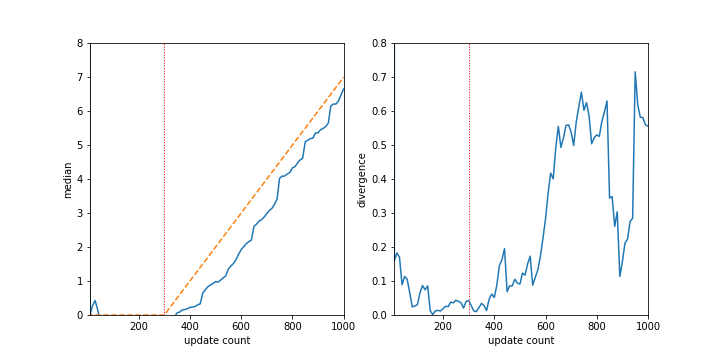
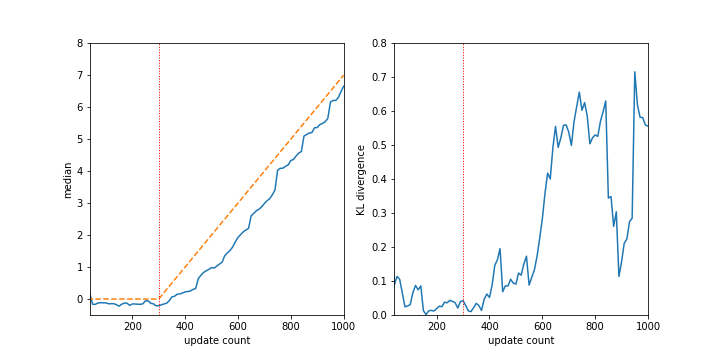
+ implements the gif plot for the gradual concept drift experiment

diff --git a/flip-docs/resources/experiments/pdfplot.py b/flip-docs/resources/experiments/pdfplot.py
@@ -7,17 +7,30 @@ from scipy.stats import norm
 
 # basic frame
 
-def pdfframe(ax, expected, xmin, xmax, ymin, ymax):
-    margin = 10
-
-    x2 = np.arange(xmin - margin, xmax + margin, 0.1)
-    y2 = expected(x2)
-
-    ax.plot(x2, y2, '--', color='orange')
+def pdfframe(ax, xmin, xmax, ymin, ymax):
     ax.set_xlim(xmin, xmax)
     ax.set_ylim(ymin, ymax)
     ax.set_ylabel("probability density")
     ax.set_xlabel("x")
+
+
+# dashed
+
+def empty_pdf_dashed_dataframe(ax):
+    return ax.plot([], [], '--', color='orange')
+
+def setline_for_expected(lines, expected, xmin, xmax):
+    margin = 10
+    line, = lines
+    x2 = np.arange(xmin - margin, xmax + margin, 0.1)
+    y2 = expected(x2)
+
+    line.set_data(x2, y2)
+
+def pdfframe_with_expected(ax, expected, xmin, xmax, ymin, ymax):
+    pdfframe(ax, xmin, xmax, ymin, ymax)
+    line = empty_pdf_dashed_dataframe(ax)
+    setline_for_expected(line, expected, xmin, xmax)
 
 
 # errorbar
@@ -51,7 +64,7 @@ def seterr_for_loc(err, data_loc, xmin, xmax):
 
 
 def pdfplot_errorbar(ax, expected, data_loc, xmin, xmax, ymin, ymax, notation = None):
-    pdfframe(ax, expected, xmin, xmax, ymin, ymax)
+    pdfframe_with_expected(ax, expected, xmin, xmax, ymin, ymax)
     err = empty_pdf_errorbar_dataframe(ax, notation)
     seterr_for_loc(err, data_loc, xmin, xmax)
 
@@ -59,10 +72,12 @@ def pdfplot_errorbar(ax, expected, data_loc, xmin, xmax, ymin, ymax, notation = 
 def animated_pdfplot_errorbar(data_loc, start, end, step, expected, xmin, xmax, ymin, ymax):
     fig, ax = plt.subplots()
 
-    pdfframe(ax, expected, xmin, xmax, ymin, ymax)
+    pdfframe(ax, xmin, xmax, ymin, ymax)
+    lines = empty_pdf_dashed_dataframe(ax)
     err = empty_pdf_errorbar_dataframe(ax)
 
     def animate(i):
+        setline_for_expected(lines, lambda x: expected(x, i), xmin, xmax)
         seterr_for_loc(err, data_loc(i), xmin, xmax)
         ax.set_title("estimated pdf for update count: " + str(i))
         return err,
@@ -114,7 +129,7 @@ def setbar_for_loc(bars, data_loc, xmin, xmax):
 
 
 def pdfplot_bar(ax, expected, data_loc, xmin, xmax, ymin, ymax, annotation = None):
-    pdfframe(ax, expected, xmin, xmax, ymin, ymax)
+    pdfframe_with_expected(ax, expected, xmin, xmax, ymin, ymax)
     bars = init_pdf_bar_dataframe_for_loc(ax, data_loc, xmin, xmax, annotation)
     setbar_for_loc(bars, data_loc, xmin, xmax)
 
@@ -123,13 +138,15 @@ def animated_pdfplot_bar(data_loc, start, end, step, expected, xmin, xmax, ymin,
     fig, ax = plt.subplots()
 
     init_data_loc = data_loc(start)
-    pdfframe(ax, expected, xmin, xmax, ymin, ymax)
+    pdfframe(ax, xmin, xmax, ymin, ymax)
+    lines = empty_pdf_dashed_dataframe(ax)
     bars = init_pdf_bar_dataframe_for_loc(ax, init_data_loc, xmin, xmax)
 
     def animate(i):
+        setline_for_expected(lines, lambda x: expected(x, i), xmin, xmax)
         setbar_for_loc(bars, data_loc(i), xmin, xmax)
         ax.set_title("estimated pdf for update count: " + str(i))
-        return bars,
+        return bars, lines
 
     idxs = np.arange(start, end, step)
     return animation.FuncAnimation(fig, animate, idxs, repeat=False, blit=False)

diff --git a/flip-docs/resources/experiments/gradual-cd.py b/flip-docs/resources/experiments/gradual-cd.py
@@ -1,20 +1,38 @@
 import numpy as np
-from scipy.stats import pareto
+from scipy.stats import norm
 import matplotlib as mpl
 import matplotlib.pyplot as plt
 import preprocessing as prep
+import pdfplot as pdfplt
+import kldplot as kldplt
 
 name = "gradual-cd-normal"
-dir = "../../flip-bench/experiments/gradual-cd-normal/"
+dir = "../../../flip-bench/experiments/gradual-cd-normal/"
 
 fig = plt.figure(figsize=(10, 5))
 
 nrows = 1
 ncols = 2
-xmin = 10
-xmax = 1000
+countmin = 40
+countmax = 1000
+
+moving_start = 300
+velocity = 0.01
+
+def data_loc(i):
+    return dir + "gradual-cd-normal-pdf-" + str(i) + ".out"
+
+def expected(x, start, i):
+    if i < start:
+        return norm.pdf(x)
+    else:
+        return norm.pdf(np.array(x) - (i - start) * velocity)
+
 
 # Median
+
+medianmin = -0.5
+medianmax = 8
 
 median_data_loc = dir + "gradual-cd-normal-median.out"
 
@@ -24,34 +42,46 @@ x1 = list(map(lambda d: d[0], median_data))
 y1 = list(map(lambda d: d[1], median_data))
 y2 = list(map(lambda d: d[2], median_data))
 
-sp1 = plt.subplot(nrows, ncols, 1)
-sp1.plot(x1, y2)
-sp1.plot(x1, y1, '--')
-sp1.axvline(300, color='r', linestyle=':', linewidth=1)
-sp1.set_ylabel("median")
-sp1.set_xlabel("update count")
-sp1.set_xlim(xmin, xmax)
-# sp1.set_ylim(0.0, 20.0)
-sp1.set_ylim(0.0, 8.0)
+ax1 = plt.subplot(nrows, ncols, 1)
+ax1.plot(x1, y2)
+ax1.plot(x1, y1, '--')
+ax1.axvline(moving_start, color='r', linestyle=':', linewidth=1)
+ax1.set_ylabel("median")
+ax1.set_xlabel("update count")
+ax1.set_xlim(countmin, countmax)
+ax1.set_ylim(medianmin, medianmax)
+
 
 # KLD
 
+rearr_start = 50
+rearr_period = 100
+kld_max = 0.8
+
 kld_data_loc = dir + "gradual-cd-normal-kld.out"
 
-kld_data = prep.data(kld_data_loc, 2)
+ax2 = plt.subplot(nrows, ncols, 2)
+kldplt.kldplot(ax2, kld_data_loc, kld_max, countmin, countmax, rearr_start, rearr_period, False)
+ax2.axvline(moving_start, color='r', linestyle=':', linewidth=1)
 
-x3 = list(map(lambda d: d[0], kld_data))
-y3 = list(map(lambda d: abs(d[1]), kld_data))
-sp2 = plt.subplot(nrows, ncols, 2)
-sp2.plot(x3, y3)
-sp2.axvline(300, color='r', linestyle=':', linewidth=1)
-sp2.set_ylabel("divergence")
-sp2.set_xlabel("update count")
-sp2.set_xlim(xmin, xmax)
-# sp2.set_ylim(0.0, 1.5)
-sp2.set_ylim(0.0, 0.8)
+
+# Save
 
 plt.legend()
 plt.savefig(name + '.pdf')
 plt.savefig(name + '.png')
 plt.show()
+
+
+# Animated PDF
+
+step = 10
+fps = 4
+xmin = -1
+xmax = 8
+ymin = 0
+ymax = 1
+
+utd_animation2 = pdfplt.animated_pdfplot_bar(
+  data_loc, countmin, countmax, step, lambda x, i: expected(x, moving_start, i), xmin, xmax, ymin, ymax)
+utd_animation2.save(name + '-histo.gif', writer='imagemagick', fps=fps)

diff --git a/flip-docs/resources/experiments/kldplot.py b/flip-docs/resources/experiments/kldplot.py
@@ -1,14 +1,16 @@
 import preprocessing as prep
 
-def kldplot(ax, kld_data_loc, kld_max, countmin, countmax, rearr_start, rearr_period):
+def kldplot(ax, kld_data_loc, kld_max, countmin, countmax, rearr_start, rearr_period, rearr_idc = True):
     kld_data = prep.data(kld_data_loc, 2)
 
     x3 = list(map(lambda d: d[0], kld_data))
     y3 = list(map(lambda d: abs(d[1]) , kld_data))
     ax.plot(x3, y3)
-    for i in range(rearr_start, countmax, rearr_period):
-        ax.axvline(i, color='r', linestyle=':', linewidth=1)
     ax.set_ylabel("KL divergence")
     ax.set_xlabel("update count")
     ax.set_xlim(countmin, countmax)
     ax.set_ylim(0.0, kld_max)
+
+    if rearr_idc:
+        for i in range(rearr_start, countmax, rearr_period):
+            ax.axvline(i, color='r', linestyle=':', linewidth=1)

diff --git a/flip-docs/resources/experiments/basic-lognormal.py b/flip-docs/resources/experiments/basic-lognormal.py
@@ -12,7 +12,7 @@ dir = "../../../flip-bench/experiments/basic-lognormal/"
 def data_loc(i):
     return dir + "basic-lognormal-pdf-" + str(i) + ".out"
 
-def expected(x):
+def expected(x, i = -1):
     return lognorm.pdf(x, 1)
 
 

diff --git a/flip-docs/resources/experiments/basic-pareto.py b/flip-docs/resources/experiments/basic-pareto.py
@@ -12,7 +12,7 @@ dir = "../../../flip-bench/experiments/basic-pareto/"
 def data_loc(i):
     return dir + "basic-pareto-pdf-" + str(i) + ".out"
 
-def expected(x):
+def expected(x, i = -1):
     return pareto.pdf(x, 1)
 
 

diff --git a/flip-docs/resources/experiments/basic-bimodal.py b/flip-docs/resources/experiments/basic-bimodal.py
@@ -15,7 +15,7 @@ def data_loc(i):
     return dir + "basic-bimodal-pdf-" + str(i) + ".out"
 
 
-def expected(x):
+def expected(x, i = -1):
     return 0.5 * norm.pdf(x - 2) + 0.5 * norm.pdf(x + 2)
 
 

diff --git a/flip-docs/resources/experiments/basic-normal.py b/flip-docs/resources/experiments/basic-normal.py
@@ -14,7 +14,7 @@ fig = plt.figure(figsize=(20, 5))
 def data_loc(i):
     return dir + "basic-normal-pdf-" + str(i) + ".out"
 
-def expected(x):
+def expected(x, i = -1):
     return norm.pdf(x)
 
 
